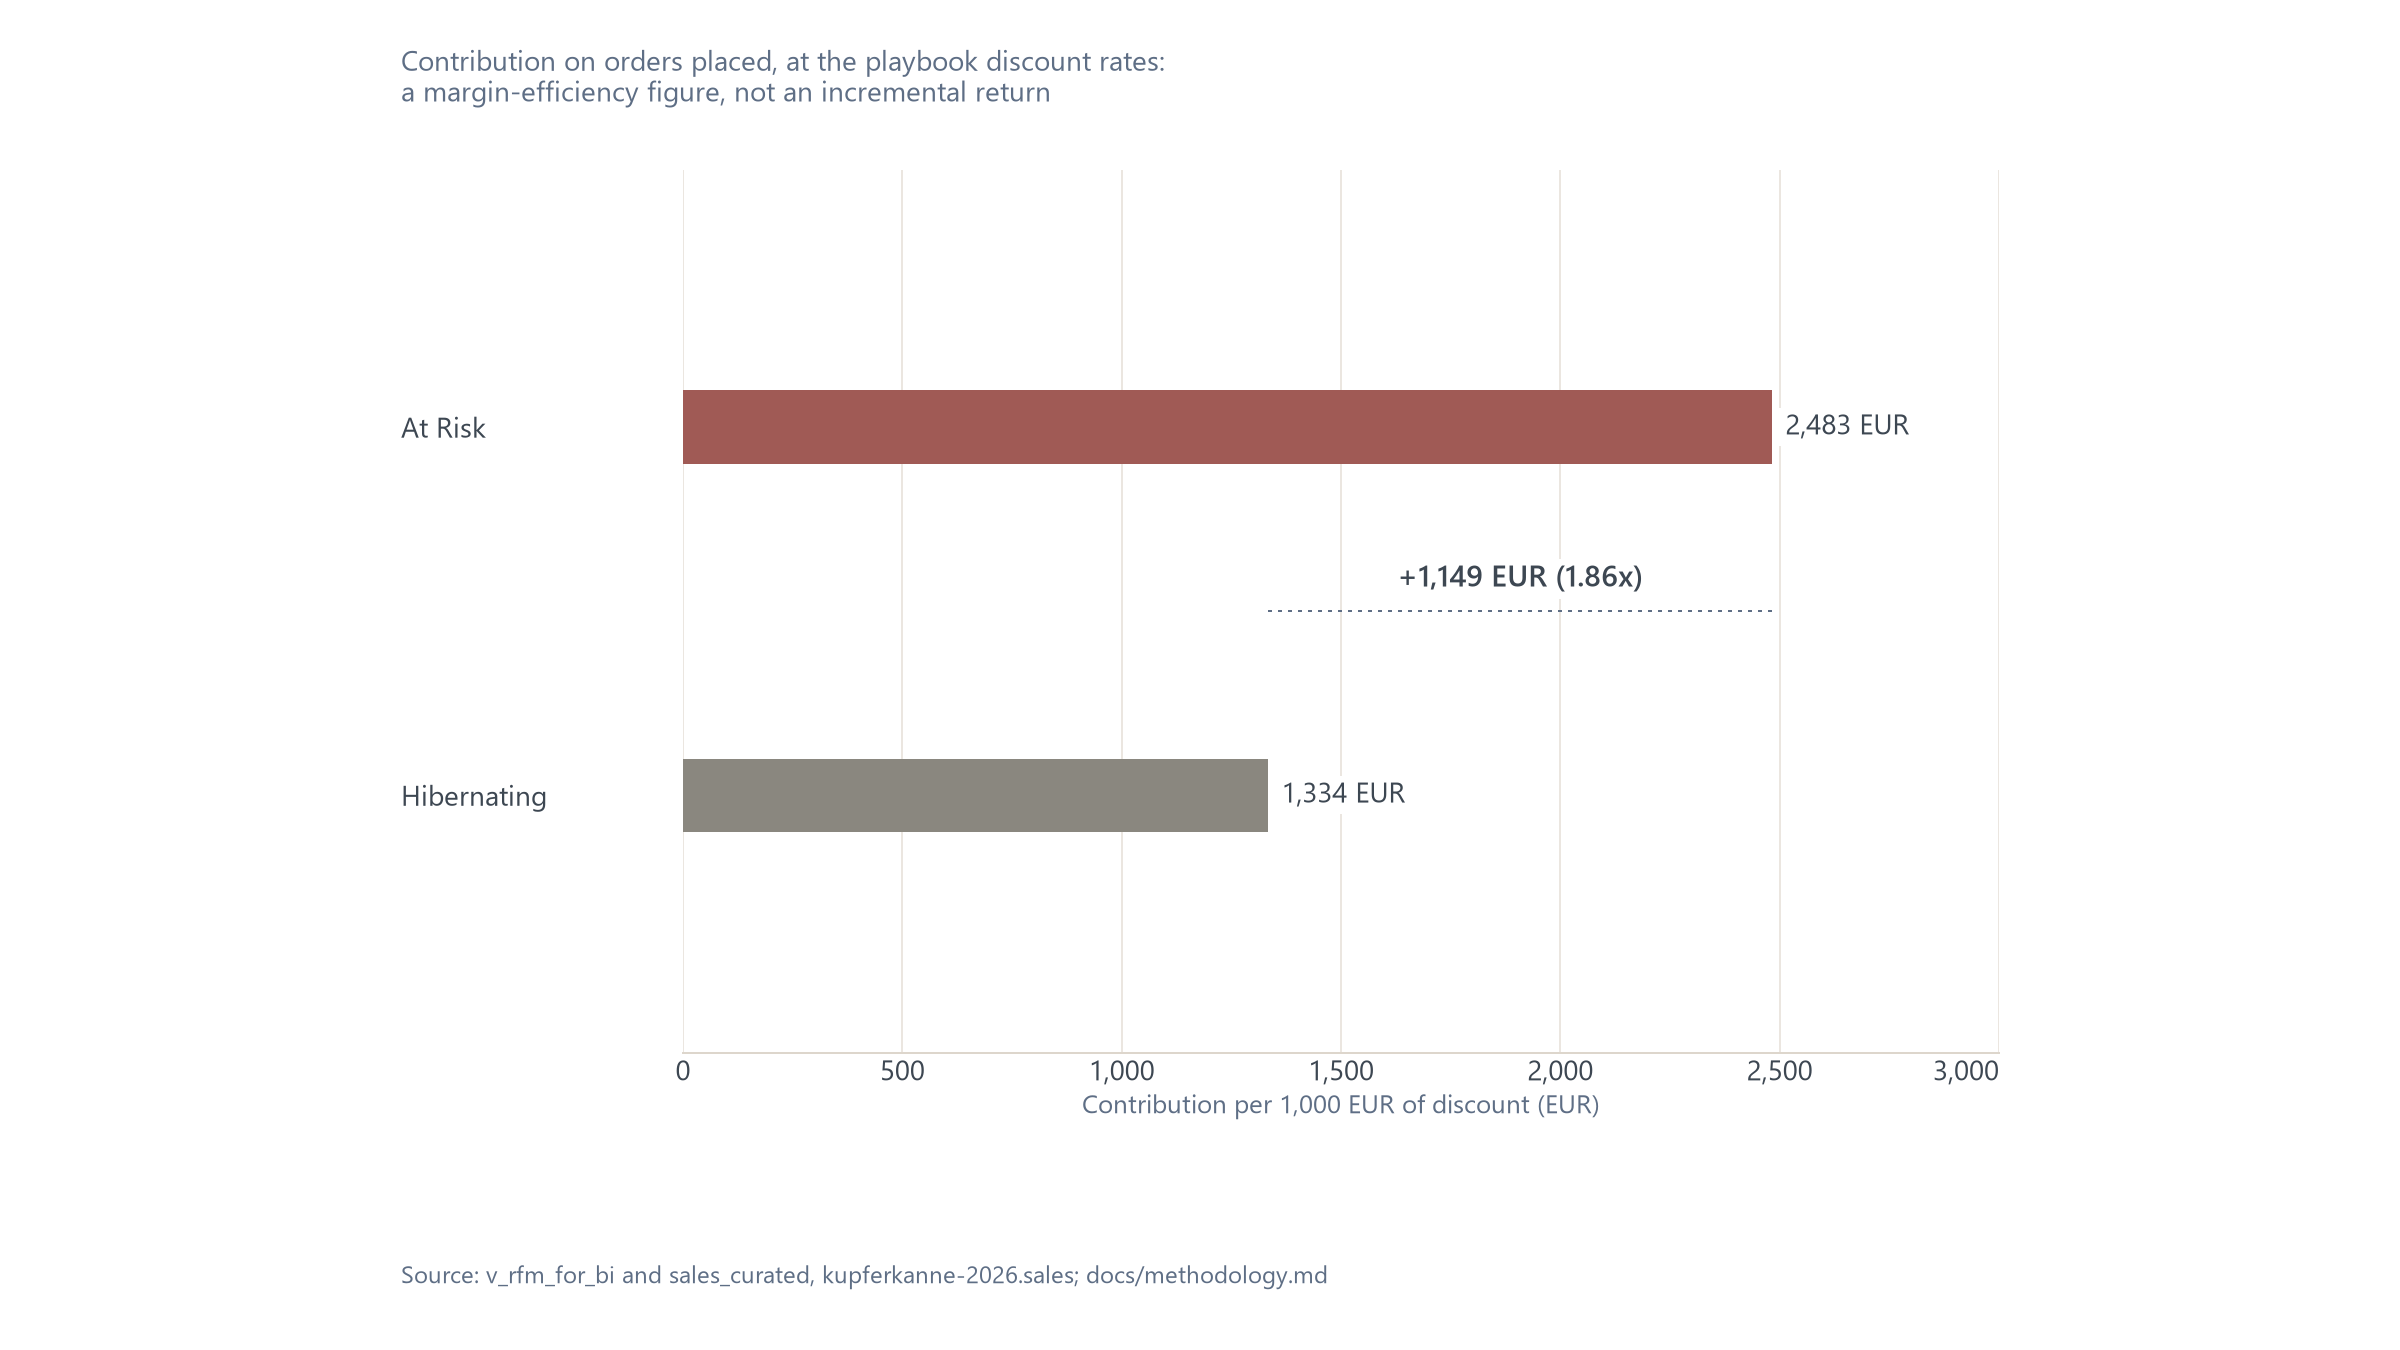
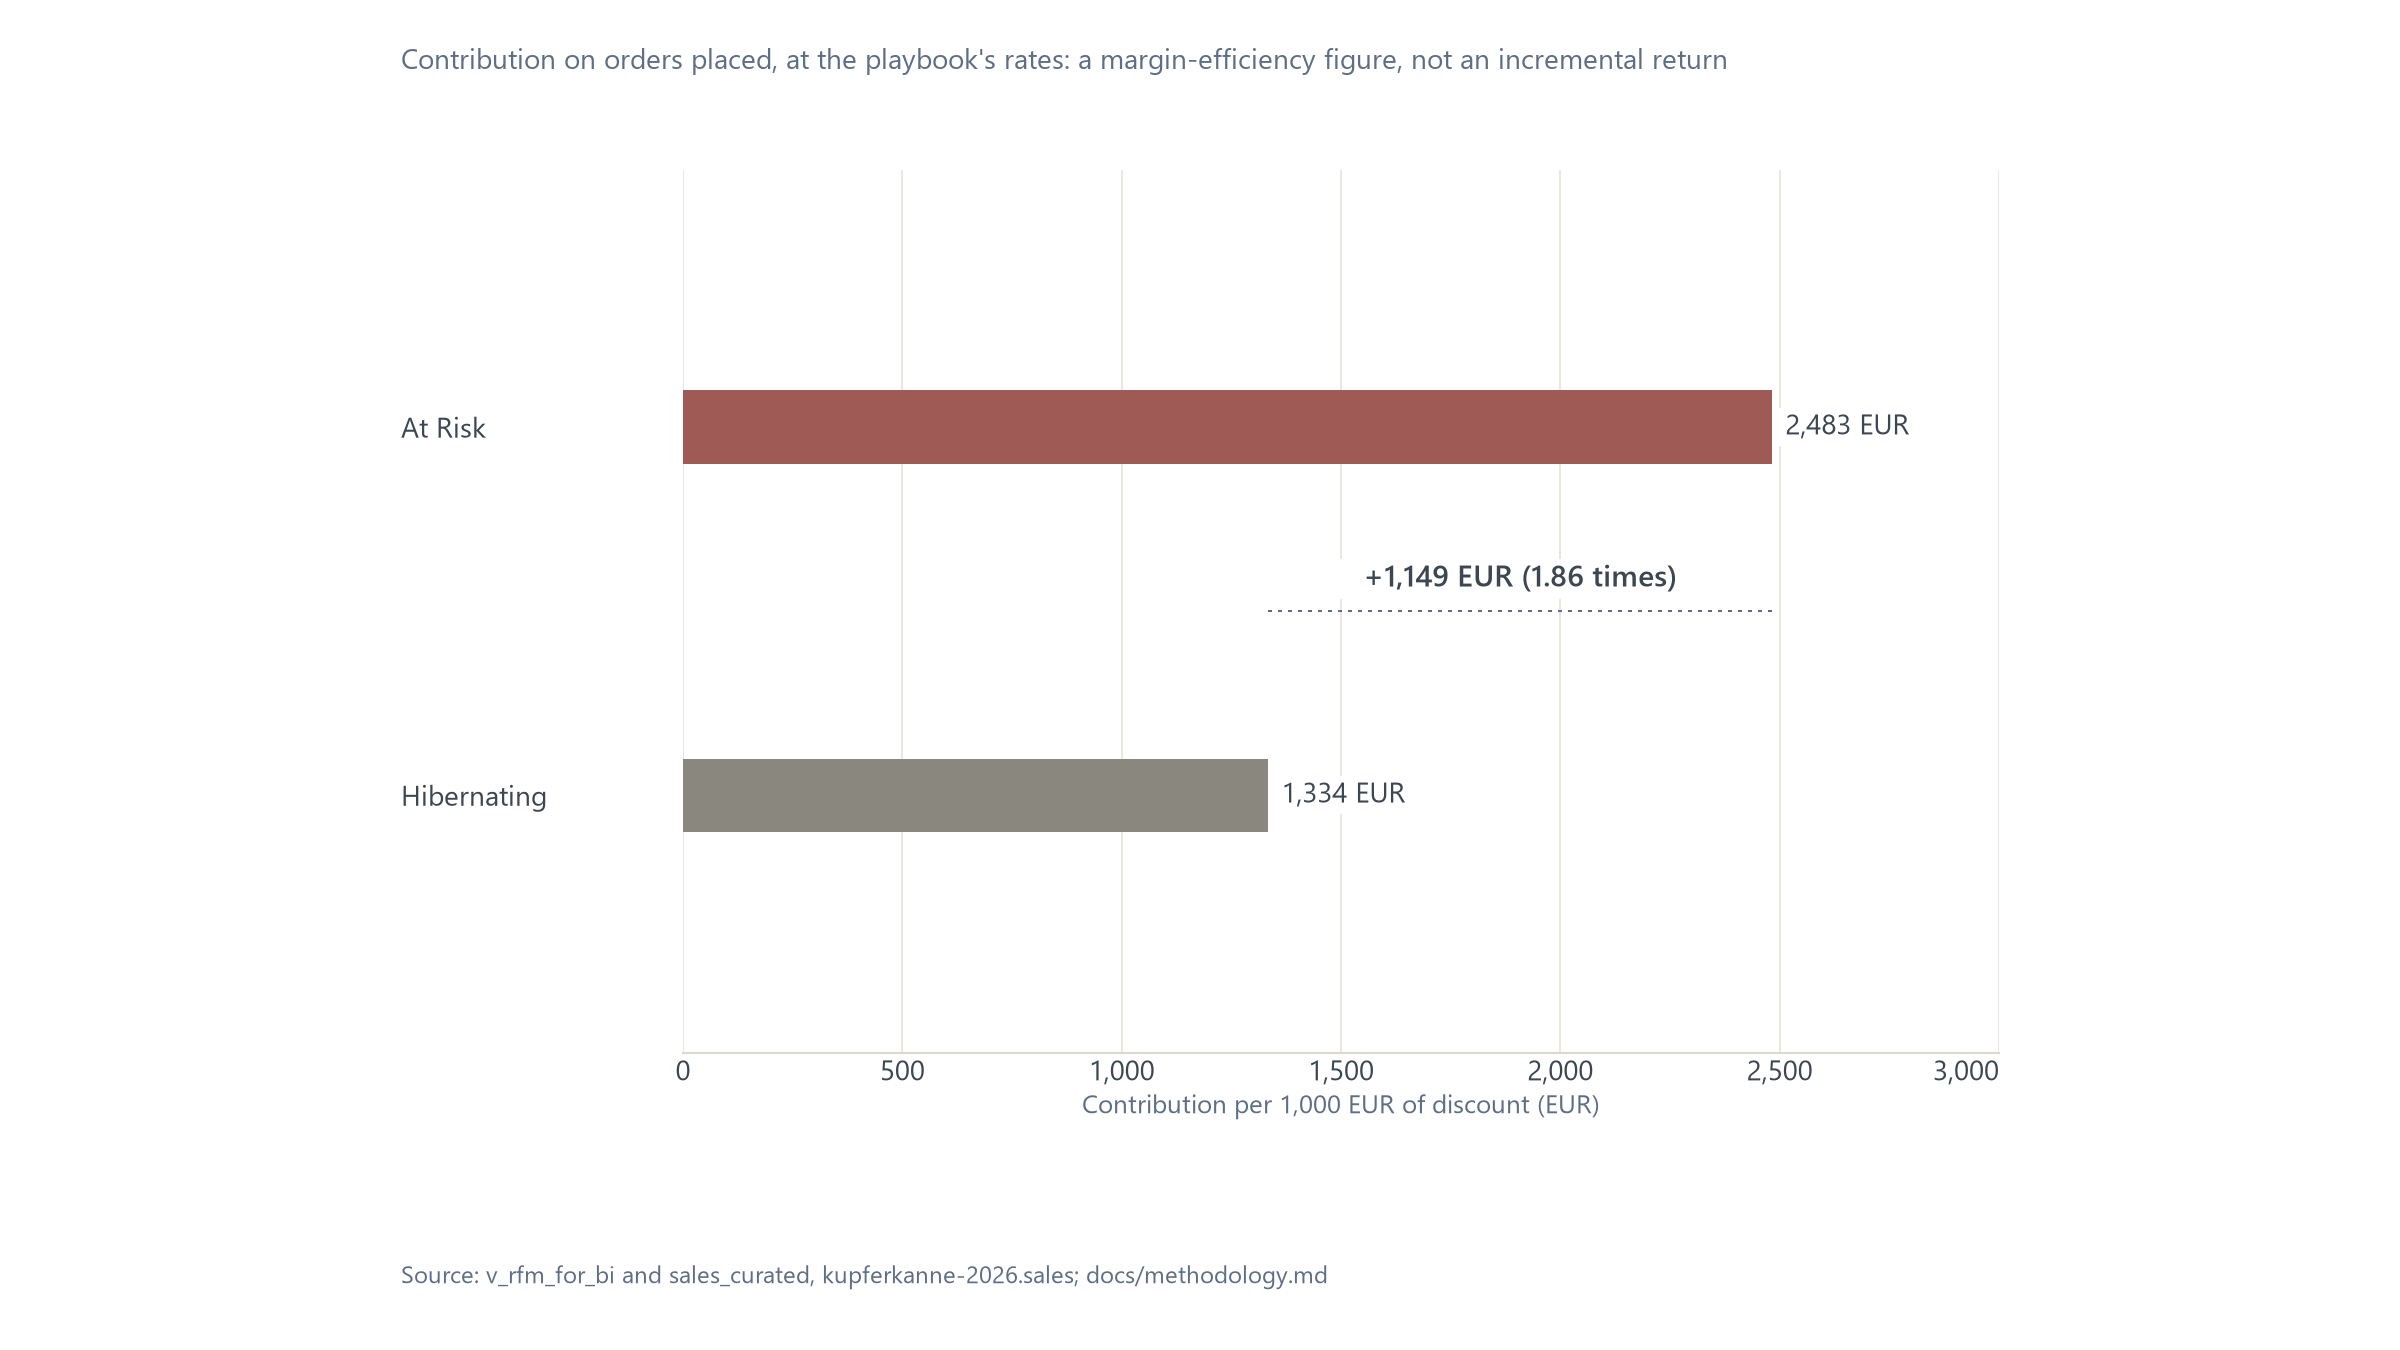
docs: scope win-back exhibits to the playbook's rates
Answer the lede's question and state the 1.86 times ratio at the
playbook's rates, with about 1.2 times at either rate applied to both.
Scope the contribution chart's heading, subtitle, label and alt text.

Changed region(s): [[0.1562, 0.0311, 0.7188, 0.0933], [0.5625, 0.4044, 0.6875, 0.4356]]

diff --git a/CHANGELOG.md b/CHANGELOG.md
@@ -43,6 +43,7 @@ The format is based on [Keep a Changelog](https://keepachangelog.com/en/1.1.0/),
 - Appendix with the six-segment share table (customers, share of scored customers, lifetime spend, share of revenue base) added to `docs/methodology.md` as the source of the segment-share exhibit.
 - Win-back metric wording in `docs/methodology.md` aligned with the exhibits: At Risk "retains" 1.86 times the contribution per euro of discount that Hibernating retains, instead of "returns", which read as an observed campaign return; the exhibits check that reads the ratio matches the new wording.
 - Win-back analysis in `docs/methodology.md`: the 1.86 times ratio is stated at the playbook's rates (15 and 20 percent), with the common-rate comparison (about 1.2 times) and the reversal when the rates are swapped; the pilot metric is built from per-customer means, and the decision rule, fixed before launch, uses the lower bound of a 95 percent bootstrap interval.
+- Win-back exhibits page (`notebooks/exhibits_win_back.qmd`): the lede answers its question and states the 1.86 times ratio at the playbook's rates (15 and 20 percent), with the common-rate comparison (about 1.2 times with either rate applied to both segments) and a pilot run at those rates; the contribution-per-1,000-EUR chart scopes its heading, subtitle, caption, description and alt text to the playbook's rates, and its gap label reads "1.86 times" instead of an "x" suffix. The render checks the segment by rate table in `docs/methodology.md` and these literals against the live margins, and asserts that the gap label clears both bars.
 
 ---
 
